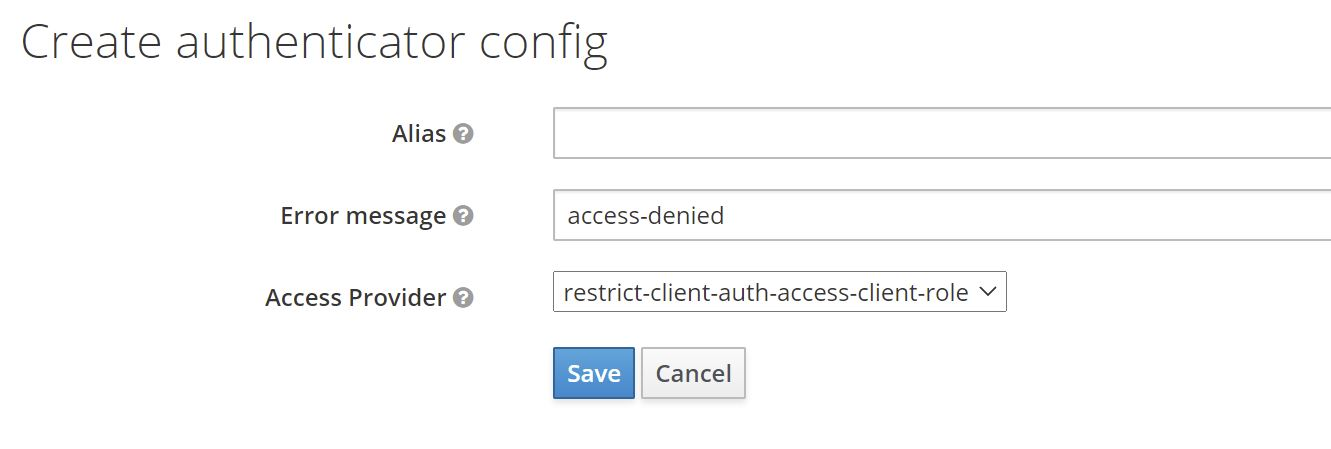
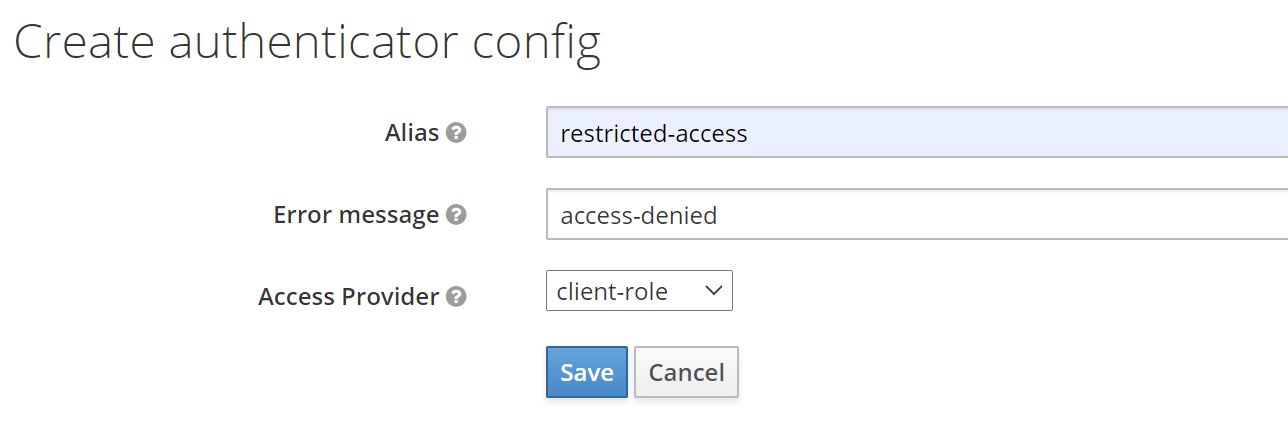
docs: Update README to reflect latest changes

diff --git a/README.md b/README.md
@@ -1,4 +1,4 @@
-# Keycloak: Authenticator - Restrict user authentication on client
+# \[Keycloak\] Restrict user authorization on clients
 ![GitHub release (latest SemVer)](https://img.shields.io/github/v/release/sventorben/keycloak-restrict-client-auth?sort=semver)
 ![GitHub Release Date](https://img.shields.io/github/release-date/sventorben/keycloak-restrict-client-auth)
 ![](https://img.shields.io/badge/Keycloak-15.0.2-blue)
@@ -7,27 +7,26 @@
 ![open issues](https://img.shields.io/github/issues/sventorben/keycloak-restrict-client-auth)
 ![](https://img.shields.io/github/license/sventorben/keycloak-restrict-client-auth?label=License)
 
-This is a simple Keycloak authenticator to restrict user authentication to client.
+This is a simple Keycloak authenticator to restrict user authorization on clients.
 
 ## What is it good for?
-Every now and then I get asked whether it is possible to restrict user authentication for certain clients.
+
+Every now and then I get asked whether it is possible to restrict user authorization on certain clients.
 
 Generally the question goes like this
 
-> Is it possible to allow specific users to authenticate to a client, while reject others?
+> Is it possible to allow specific users to authenticate to a client while rejecting others?
 
 As of today, my general answer is _"no, at least not out of the box"_. And in general my advice is to redesign and relocate the policy enforcement point (PEP).
 However, since this question popped up so often, I wrote this simple authenticator to support this functionality.
 
-### Why not use "Allow/Deny Access" authenticators with conditions?
-With Keycloak 13 two new authenticators have been added, namely `Allow Access` and `Deny Access`. Together with `Condition - User Role` authenticator authentication may be restricted in a similar way with out-of-the-box features. So, the question is why not use that and override authentication flows on a per client basis?
-
-Here are some reasons/thoughts
-* It is not really flexible. Since `Condition - User Role` only allows for checking one concrete (realm or client-specific) role, a very complex flow handling all clients, or a totally separate flow for each individual client would be needed.
-* It simply does not work well with federated authentication (ie. identity provider redirects), since there is no way to configure client specific behaviour for `First login flow` or `Post login flows`. In other words, there is no feature like `Authentication flow overrides` at an IdP level. Hence, the same flow will be used for all clients. As said before, this becomes very complicated.
-
 ## How does it work?
-The authenticator uses client roles to restrict authentication. It works like this:
+
+The authenticator can work either role-based or policy-based.
+
+### Role-based mode
+
+In this mode, the authenticator uses client roles to restrict authentication. It works like this:
 
 * The authenticator checks whether a client defines a role named `restricted-access`
     * If it does the authenticator checks whether the user has that role
@@ -35,14 +34,30 @@ The authenticator uses client roles to restrict authentication. It works like th
         * If it does not, the authenticator returns failure (i.e. authentication is unsuccessful)
     * If it does not, the authenticator returns success (i.e. authentication is successful).
 
-This means that you can enable the feature by adding a client role to your client named `restricted-access`.
-A client with that role has the feature enabled. Only users with that role can authenticate to that client.
+This means that you can enable the authenticator on a per-client basis by adding a client role named `restricted-access` to your client.
+A client with that role has the authenticator enabled. Only users with that role can authenticate to that client.
+
+### Policy-based mode
+
+In this mode, the authenticator uses client resources, permissions and policies to restrict authentication.
+This mode only works for confidential OIDC clients with authorization enabled.
+It works like this:
+
+* The authenticator checks whether a client defines a resource name `Keycloak Client Resource`
+    * If it does, the authenticator checks whether policies and permission evaluate to `PERMIT`
+        * If it does, the authenticator returns success (i.e. authentication is successful)
+        * If it does not, the authenticator returns failure (i.e. authentication is unsuccessful)
+    * If it does not, the authenticator returns success (i.e. authentication is successful).
+
+This means that you can enable the authenticator on a per-client basis by adding a resource named `Keycloak Client Resource` to your client.
+A client with that resource has the authenticator enabled. Users will only be able to authenticate to such a client if the associated policies and permission permit access.
 
 ## How to install?
 
-### Kecloak distribution powered by Wildfly
-
 Download a release (*.jar file) that works with your Keycloak version from the [list of releases](https://github.com/sventorben/keycloak-restrict-client-auth/releases).
+Follow the below instructions depending on your distribution and runtime environment.
+
+### Kecloak distribution powered by Wildfly
 
 Create a Wildfly module and deploy it to your Keycloak instance. For details please refer to the [official documentation](https://www.keycloak.org/docs/latest/server_development/#register-a-provider-using-modules).
 
@@ -61,32 +76,82 @@ For convenience, here is a `module.xml` file.
 
 ### Container image (Docker)
 
-For Docker-based setups mount or copy the jar to `/opt/jboss/keycloak/providers`. You may want to check [docker-compose.yml](docker-compose.yml) as example.
+For Docker-based setups mount or copy the jar to `/opt/jboss/keycloak/providers`. You may want to check [docker-compose.yml](docker-compose.yml) as an example.
 
 ### Maven/Gradle
 
-Packages are being released to GitHub Packages. You find the coordinates [here](https://github.com/sventorben?tab=packages&repo_name=keycloak-restrict-client-auth)! It may happen that I remove older packages without prior notice, because the storage is limited on the free tier.
+Packages are being released to GitHub Packages. You find the coordinates [here](https://github.com/sventorben/keycloak-restrict-client-auth/packages/779937/versions)!
+
+It may happen that I remove older packages without prior notice, because the storage is limited on the free tier.
 
 
 ## How to configure?
 
-### Configuring the authenticator
+* Add the authenticator to the desired flow.
+* Mark the authenticator as `Required`.
+* Then bind your newly created flow as desired - either as a default for the whole realm or on a per-client basis.
 
-1) First, you need to add the authenticator to your desired flow. Mark the authenticator as `Required`.
-Then bind your newly created flow as desired - either as a default for the whole realm or on a per-client basis.
-See the image below for an example.
+  See the image below for an example.
 ![Example flow](docs/images/flow.jpg)
-2) Second, configure the authenticator by clicking on `Actions -> Config` and select `restrict-client-auth-access-client-role` as the `Access Provider`.
-![Role-based access restriction](docs/images/config-client-role-based.jpg)
-3) Third, you need to add a role named `restricted-access` to the client you want to restrict access to.
-See the image below for an example.
-![Client role configuration](docs/images/client-role.jpg)
-4) Afterwards, no user can authenticate to this client. To allow a user to authenticate, you need to assign the role `restricted-access` to the user. You may do so either by assigning the role to the user directly or via groups or combined roles.
+
+* Follow instructions below for the desired mode
 
 > ⚠ **User identity**:
 >
 > The authenticator needs a user identity to check whether the user has the desired role or not. Hence, ensure that you have steps/executions in your flow prior to this authenticator that can ensure user's identity.
 
+### Role-based mode
+
+1) Configure the authenticator by clicking on `Actions -> Config` and select `client-role` as the `Access Provider`.
+![Role-based access restriction](docs/images/config-client-role-based.jpg)
+2) Add a role named `restricted-access` to the client you want to restrict access to.
+
+   See the image below for an example.
+![Client role configuration](docs/images/client-role.jpg)
+3) Afterwards, no user can authenticate to this client. To allow a user to authenticate, assign the role `restricted-access` to the user. You may do so either by assigning the role to the user directly or via groups or combined roles.
+
+#### Changing the role name
+
+You do not like the role name `restricted-access` or you do have some kind of naming conventions in place? You can change the role name globally by configuring the provider.
+
+##### via CLI:
+```
+/subsystem=keycloak-server/spi=restrict-client-auth-access-provider:add(default-provider=client-role)
+/subsystem=keycloak-server/spi=restrict-client-auth-access-provider/provider=client-role:add(properties={clientRoleName=my-custom-role-name,enabled=true})
+```
+
+##### via standalone.xml:
+```XML
+<spi name="restrict-client-auth-access-provider">
+    <default-provider>client-role</default-provider>
+    <provider name="client-role" enabled="true">
+        <properties>
+            <property name="clientRoleName" value="my-custom-role-name"/>
+        </properties>
+    </provider>
+</spi>
+```
+
+For details, please refer to [Manage Subsystem Configuration](https://www.keycloak.org/docs/latest/server_installation/index.html#manage-subsystem-configuration) section in the server installation guide.
+
+### Policy-based mode
+
+> ⚠ **OIDC only**:
+>
+> Policy-based mode only works with OIDC clients (`Client Protocol` must be `openid-connect`)
+
+
+1) Configure the authenticator by clicking on `Actions -> Config` and select `policy` as the `Access Provider`.
+![Policy-based access restriction](docs/images/config-policy-based.jpg)
+2) Configure the `Access Type` of the client to `confidential`
+3) Set `Authorization Enabled` to `on`
+4) Go to `Authorization -> Resources` and click `Create` to create a new resource
+   ![Resource configuration](docs/images/resource-config.jpg)
+5) Set the `Name` and `Display name` to `Keycloak Client Resource` and keep the other fields blank
+6) Save the resource
+   ![Resources overview](docs/images/resource.jpg)
+7) Click `Create Permission` to add permissions and policies (see [Authorization Services Guide](https://www.keycloak.org/docs/latest/authorization_services/#_permission_overview) for details)
+8) Afterwards, no user can authenticate to this client unless permissions have been granted by configured policies.
 
 ### Using a custom error message
 
@@ -104,34 +169,12 @@ restricted-access.denied=Access denied. User is missing required role 'restricte
 restricted-access.denied=Zugriff verweigert. Dem Benutzer fehlt die notwendige Rolle 'restricted-access'.
 ```
 
-If the field is blank, default property `access-denied` is used. In this case you do not need a custom theme, since this property comes with Keycloak out of the box.
-For details on how to add custom messages to Keycloak, please refer to [Messages and Internationalization](https://www.keycloak.org/docs/latest/server_development/#messages) in the server developer guide.
+If the field is left blank, default property `access-denied` is used. In this case you do not need a custom theme, since this property comes with Keycloak out of the box.
+For details on how to add custom messages to Keycloak, please refer to section [Messages and Internationalization](https://www.keycloak.org/docs/latest/server_development/#messages) in the server developer guide.
 
-### Changing the default role name
+## Frequently asked questions
 
-You do not like the role name or you do have some kind of naming conventions in place? You can change the role name globally by configuring the provider.
-
-#### via CLI:
-```
-/subsystem=keycloak-server/spi=restrict-client-auth-access-provider:add(default-provider=restrict-client-auth-access-client-role)
-/subsystem=keycloak-server/spi=restrict-client-auth-access-provider/provider=restrict-client-auth-access-client-role:add(properties={clientRoleName=my-custom-role-name,enabled=true})
-```
-
-#### via standalone.xml:
-```XML
-<spi name="restrict-client-auth-access-provider">
-    <default-provider>restrict-client-auth-access-client-role</default-provider>
-    <provider name="restrict-client-auth-access-client-role" enabled="true">
-        <properties>
-            <property name="clientRoleName" value="my-custom-role-name"/>
-        </properties>
-    </provider>
-</spi>
-```
-
-For details, please refer to [Manage Subsystem Configuration](https://www.keycloak.org/docs/latest/server_installation/index.html#manage-subsystem-configuration) section in the server installation guide.
-
-## Does it work with Keycloak version X.Y.Z?
+### Does it work with Keycloak version X.Y.Z?
 
 If you are using Keycloak version `X` (e.g. `X.y.z`), version `X.b.c` should be compatible.
 Keycloak SPIs are quite stable. So, there is a high chance this authenticator will work with other versions, too. Check the details of latest [build results](https://github.com/sventorben/keycloak-restrict-client-auth/actions/workflows/buildAndTest.yml) for an overview or simply give it a try.
@@ -139,3 +182,11 @@ Keycloak SPIs are quite stable. So, there is a high chance this authenticator wi
 Authenticator version `X.b.c` is compiled against Keycloak version `X.y.z`. For example, version `12.3.1` will be compiled against Keycloak version `12.y.z`.
 
 I do not guarantee what version `a.b` or `y.z` will be. Neither do I backport features to older version, nor maintain any older versions of this authenticator. If you need the latest features or bugfixes for an older version, please fork this project or update your Keycloak instance. I recommend doing the latter on regular basis anyways.
+
+### Why not use "Allow/Deny Access" authenticators with conditions?
+
+With Keycloak 13 two new authenticators have been added, namely `Allow Access` and `Deny Access`. Together with `Condition - User Role` authenticator authentication may be restricted in a similar way with out-of-the-box features. So, the question is why not use that and override authentication flows on a per client basis?
+
+Here are some reasons/thoughts
+* It is not really flexible. Since `Condition - User Role` only allows for checking one concrete (realm or client-specific) role, a very complex flow handling all clients, or a totally separate flow for each individual client would be needed.
+* It simply does not work well with federated authentication (ie. identity provider redirects), since there is no way to configure client specific behaviour for `First login flow` or `Post login flows`. In other words, there is no feature like `Authentication flow overrides` at an IdP level. Hence, the same flow will be used for all clients. As said before, this becomes very complicated.
